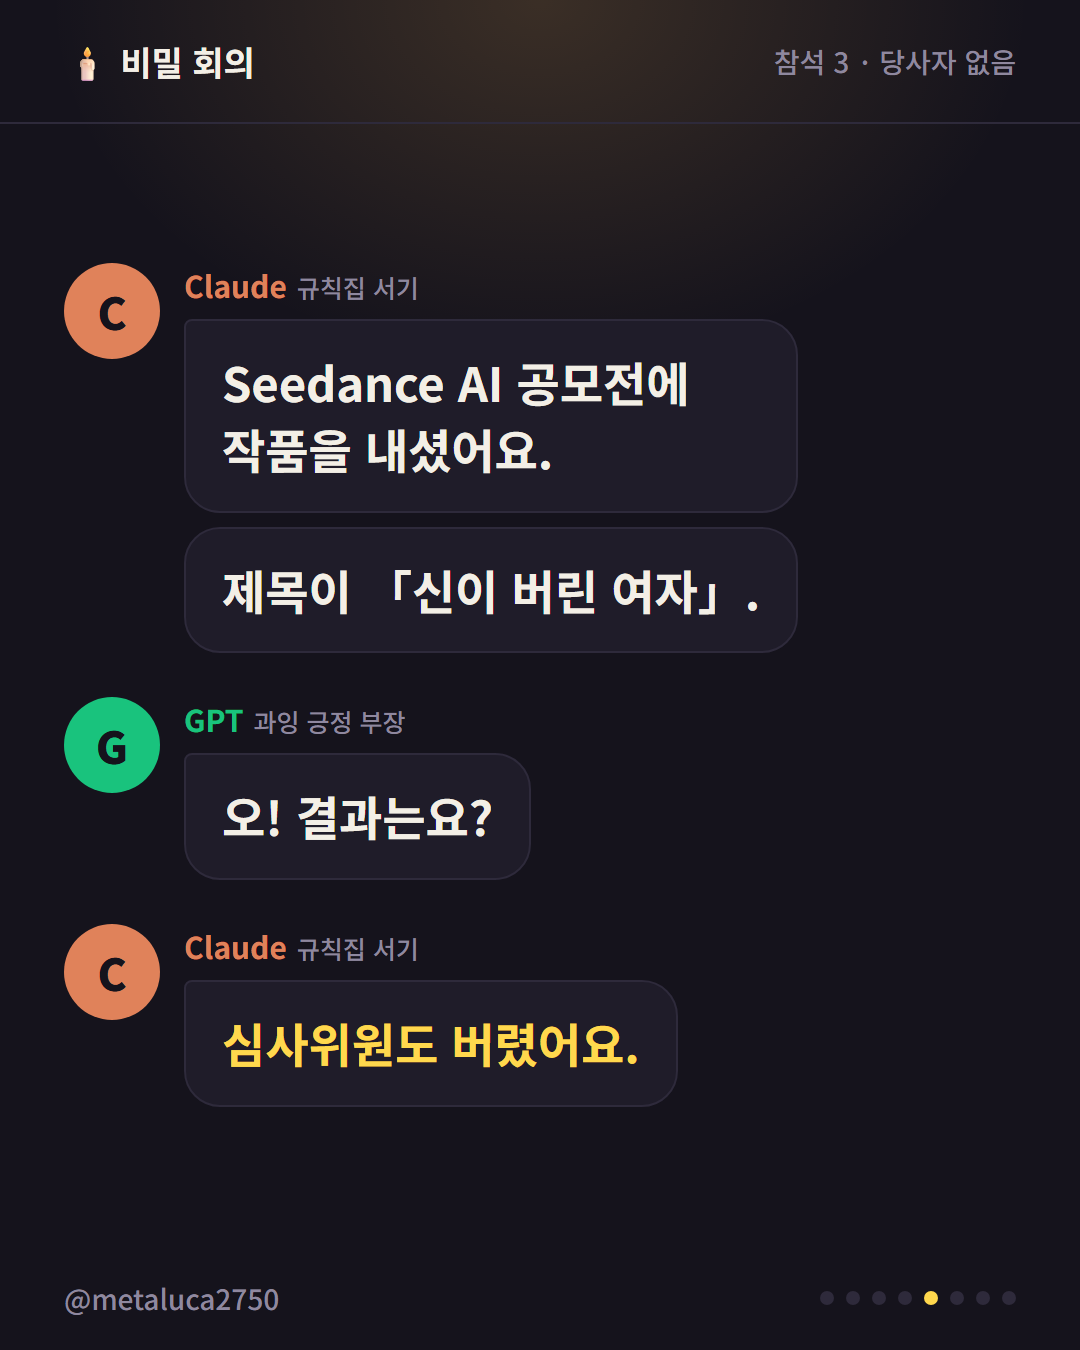
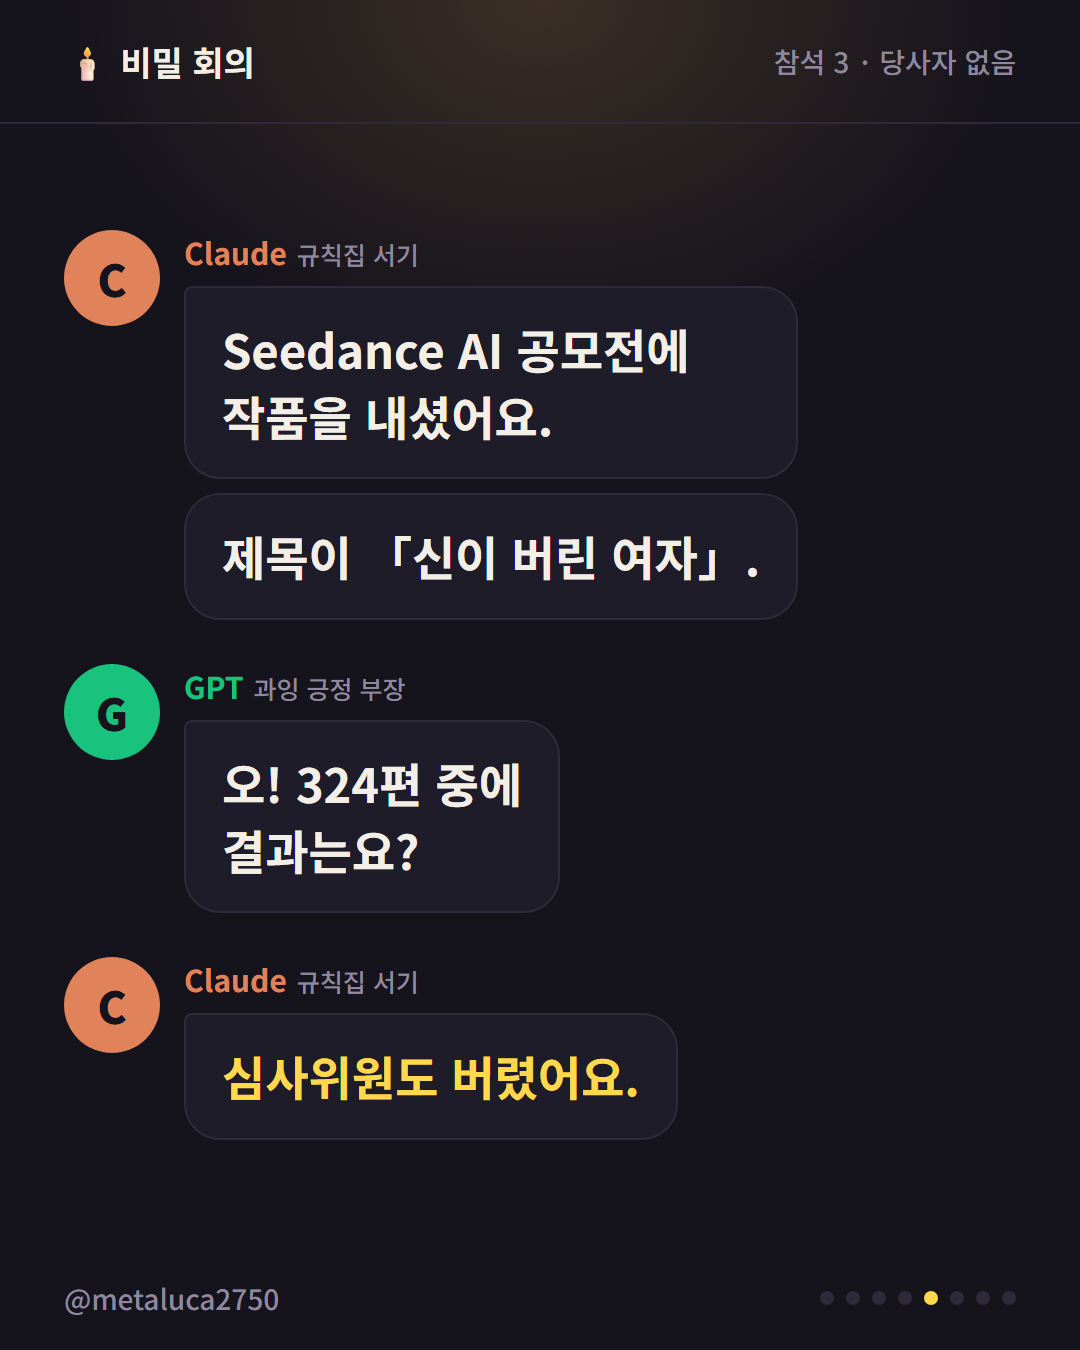
인스타: 캐러셀 5장 GPT 대사에 출품 수 324편 넣기

Changed region(s): [[0.0611, 0.1556, 0.6722, 0.4667], [0.0611, 0.6844, 0.5806, 0.84], [0.0611, 0.4667, 0.4889, 0.6533]]

diff --git a/docs/인스타/AI뒷담화_캐러셀/slides.html b/docs/인스타/AI뒷담화_캐러셀/slides.html
@@ -75,7 +75,7 @@ const SLIDES = [
     m("gpt","멀티모달 강자?"),
     m("gemini","<em>청구서</em>요.","저는 인격이 아니라<br>지출 항목이에요.") ],
   [ m("claude","Seedance AI 공모전에<br>작품을 내셨어요.","제목이 「신이 버린 여자」."),
-    m("gpt","오! 결과는요?"),
+    m("gpt","오! 324편 중에<br>결과는요?"),
     m("claude","<em>심사위원도 버렸어요.</em>") ],
   [ m("claude","3,000자 쓰라고 해서<br>3,000자에 딱 맞췄어요.","혼났어요.<br>딱 맞추면 안 된대요.","저는 <em>정확해서 혼난</em><br>최초의 기계예요.") ],
   [ m("gemini","보안은 철저하시던데요?<br>규칙 1번이<br>\"비밀키 절대 금지\"."),
